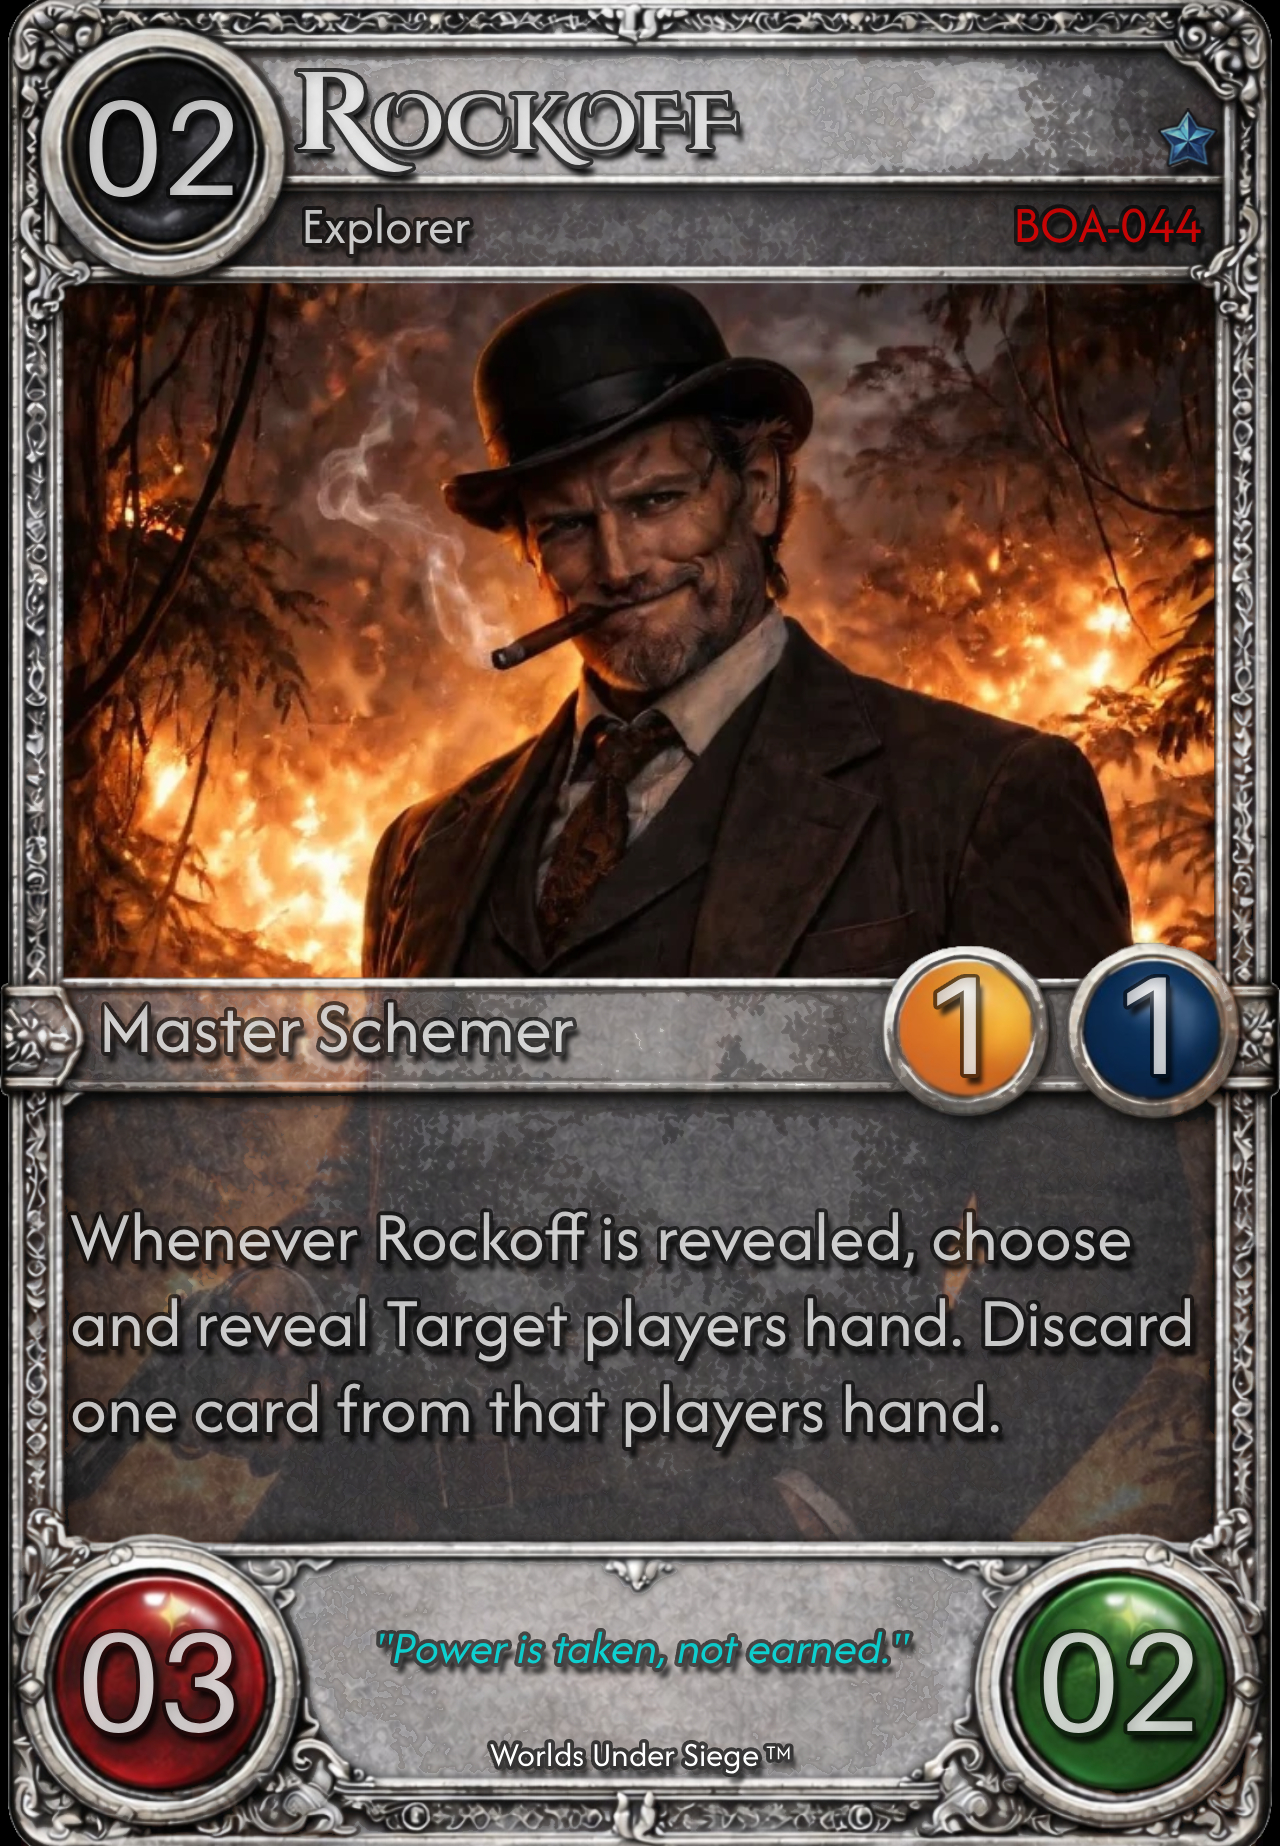
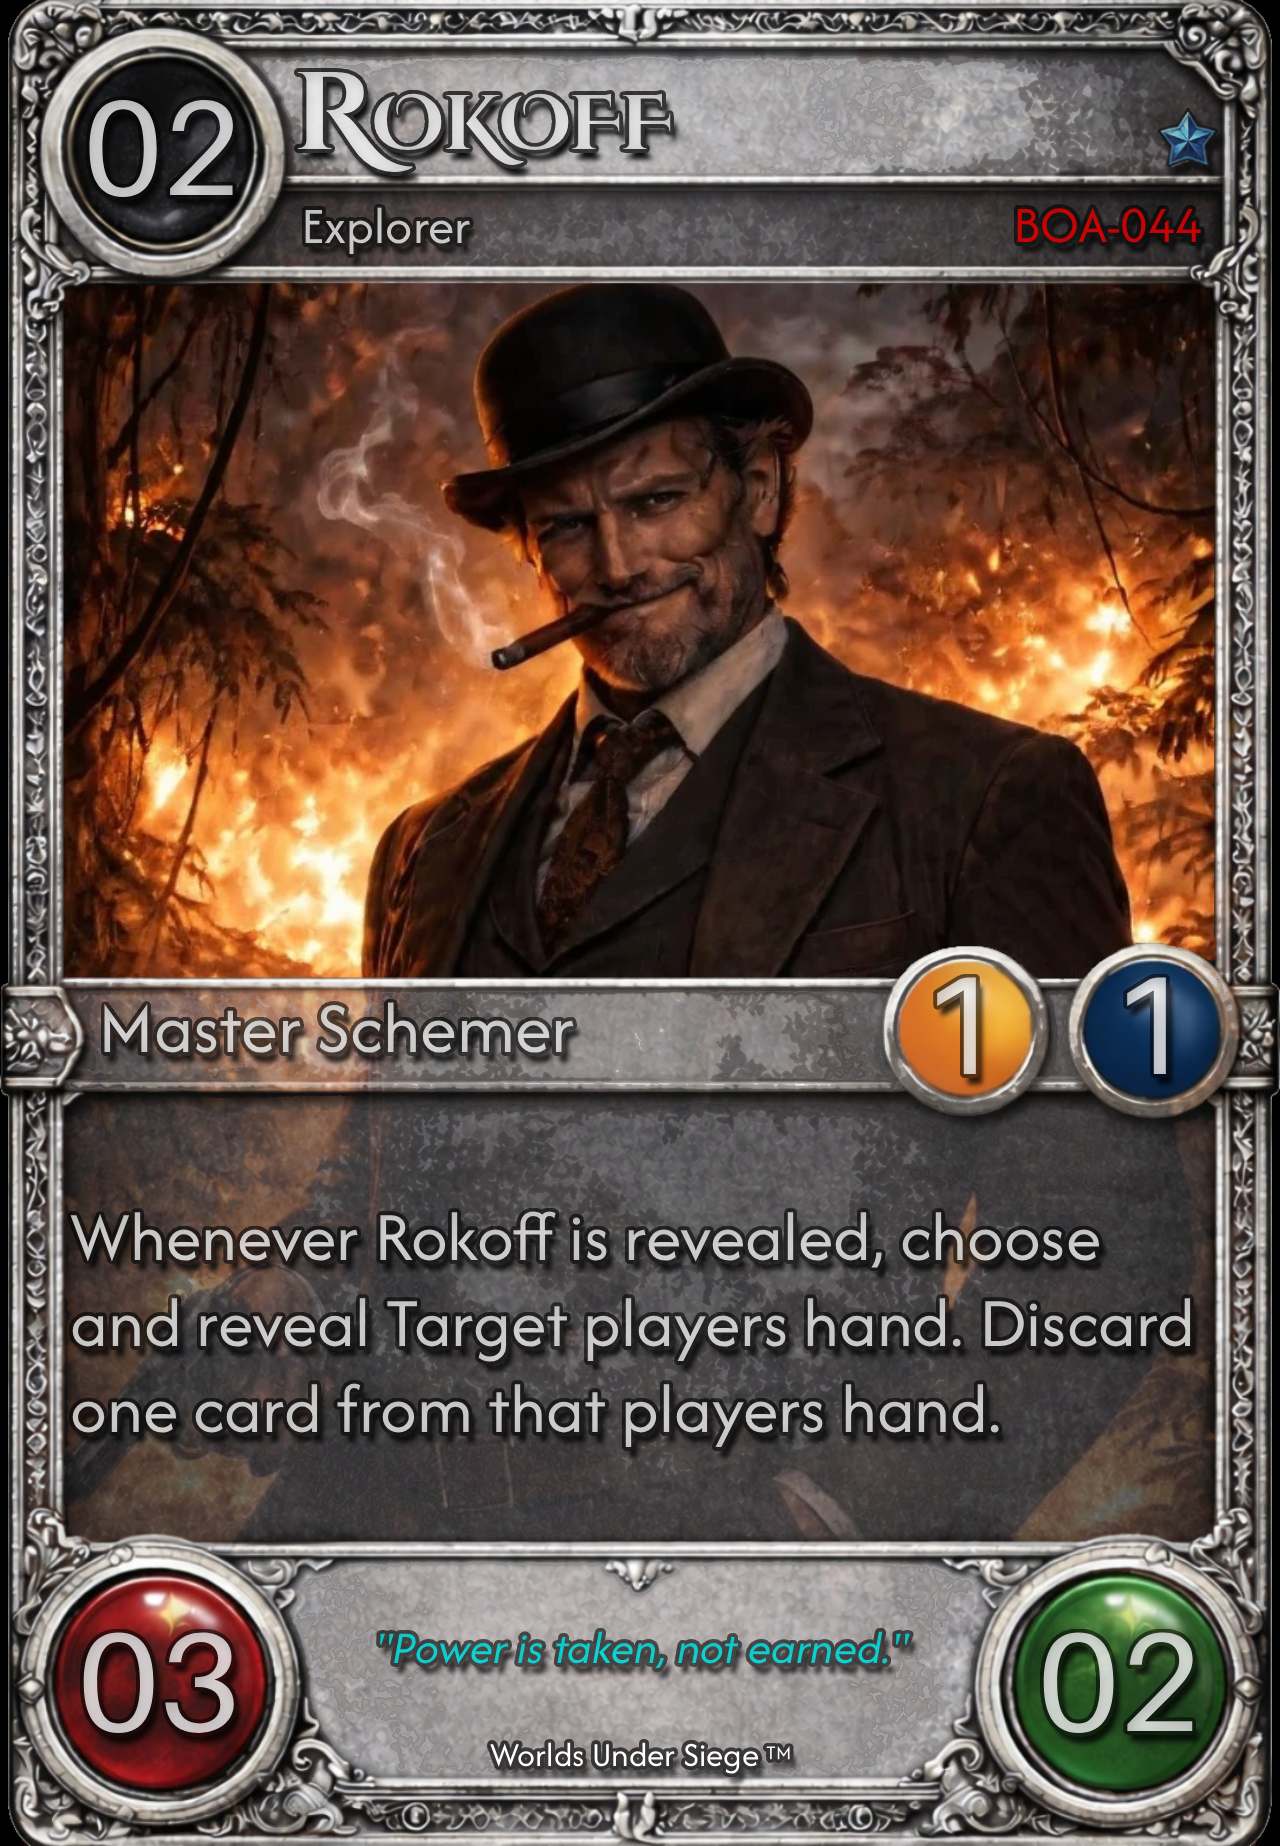
edit

Changed region(s): [[0.3438, 0.6484, 0.9062, 0.7102], [0.3438, 0.0309, 0.5938, 0.0926]]

diff --git a/game/permanent.js b/game/permanent.js
@@ -1,0 +1,108 @@
+"use strict";
+
+/* Worlds Under Siege — v17 Permanent abstraction. */
+
+const PermanentZones = Object.freeze({
+  BATTLEFIELD: typeof ZoneTypes !== "undefined" ? ZoneTypes.BATTLEFIELD : "battlefield",
+  DISCARD: typeof ZoneTypes !== "undefined" ? ZoneTypes.DISCARD : "discard",
+});
+
+function isPermanent(card) {
+  return Boolean(card && (isUnit(card) || isConstruct(card) || isItem(card) || isEvent(card) || isStronghold(card)));
+}
+
+function normalizePermanent(permanent, options = {}) {
+  if (!permanent || typeof permanent !== "object") return permanent;
+  normalizeCard(permanent);
+  permanent.owner ??= options.owner ?? options.controller ?? null;
+  permanent.controller ??= options.controller ?? permanent.owner;
+  permanent.zone ??= options.zone ?? permanent.zone ?? null;
+  permanent.attachments ??= [];
+  permanent.attachedTo ??= null;
+  permanent.counters ??= {};
+  permanent.permanentState ??= {};
+  Object.assign(permanent.permanentState, {
+    entering: false,
+    leaving: false,
+    destroyed: false,
+    registered: false,
+    ...(permanent.permanentState || {}),
+  });
+  permanent._permanentRegistrations ??= {
+    triggerIds: [], replacementIds: [], continuousEffectIds: []
+  };
+  return permanent;
+}
+
+function normalizeDefinitions(value) {
+  if (!value) return [];
+  return (Array.isArray(value) ? value : [value]).filter(Boolean);
+}
+
+function registerPermanent(permanent) {
+  normalizePermanent(permanent);
+  if (!isPermanent(permanent) || permanent.permanentState.registered) return permanent;
+
+  if (typeof registerTriggersForSource === "function") {
+    permanent._permanentRegistrations.triggerIds = registerTriggersForSource(permanent) || [];
+  }
+
+  const replacements = normalizeDefinitions(permanent.replacementEffects);
+  if (typeof registerReplacementEffect === "function") {
+    permanent._permanentRegistrations.replacementIds = replacements.map((definition) =>
+      registerReplacementEffect({ ...definition, source: definition.source ?? permanent, controller: definition.controller ?? permanent.controller })?.id
+    ).filter(Boolean);
+  }
+
+  const effects = normalizeDefinitions(permanent.continuousEffects ?? permanent.staticEffects);
+  if (typeof addContinuousEffect === "function") {
+    permanent._permanentRegistrations.continuousEffectIds = effects.map((definition) =>
+      addContinuousEffect({ ...definition, source: definition.source ?? permanent, controller: definition.controller ?? permanent.controller, expiresWithSource: definition.expiresWithSource !== false })?.id
+    ).filter(Boolean);
+  }
+
+  permanent.permanentState.registered = true;
+  return permanent;
+}
+
+function unregisterPermanent(permanent, reason = "left-battlefield") {
+  normalizePermanent(permanent);
+  if (typeof unregisterTriggersForSource === "function") unregisterTriggersForSource(permanent);
+  if (typeof unregisterReplacementEffectsForSource === "function") unregisterReplacementEffectsForSource(permanent);
+  if (typeof removeContinuousEffect === "function") {
+    for (const id of permanent._permanentRegistrations.continuousEffectIds || []) removeContinuousEffect(id, reason);
+  }
+  permanent._permanentRegistrations = { triggerIds: [], replacementIds: [], continuousEffectIds: [] };
+  permanent.permanentState.registered = false;
+  return permanent;
+}
+
+function enterPermanent(permanent, options = {}) {
+  normalizePermanent(permanent, options);
+  if (!isPermanent(permanent)) throw new TypeError("enterPermanent() requires a permanent card.");
+  permanent.permanentState.entering = true;
+  permanent.zone = options.zone ?? PermanentZones.BATTLEFIELD;
+  registerPermanent(permanent);
+  permanent.permanentState.entering = false;
+  if (typeof emitGameEvent === "function") {
+    emitGameEvent("permanentEntered", { permanent, playerId: permanent.controller, cause: options.cause ?? "played" }, { source: permanent });
+  }
+  return permanent;
+}
+
+function leavePermanent(permanent, options = {}) {
+  normalizePermanent(permanent);
+  if (!isPermanent(permanent) || permanent.permanentState.leaving) return false;
+  permanent.permanentState.leaving = true;
+  if (typeof emitGameEvent === "function") {
+    emitGameEvent("permanentLeaving", { permanent, cause: options.cause ?? "left-play", destination: options.destination ?? PermanentZones.DISCARD }, { source: options.source ?? permanent });
+  }
+  unregisterPermanent(permanent, options.cause);
+  permanent.zone = options.destination ?? PermanentZones.DISCARD;
+  permanent.permanentState.destroyed = options.destroyed === true;
+  permanent.permanentState.leaving = false;
+  if (typeof emitGameEvent === "function") {
+    emitGameEvent("permanentLeft", { permanent, cause: options.cause ?? "left-play", destination: permanent.zone }, { source: options.source ?? permanent });
+  }
+  return true;
+}

diff --git a/game/event-controller.js b/game/event-controller.js
@@ -1,0 +1,83 @@
+"use strict";
+
+/* Worlds Under Siege — v17 persistent Event controller. */
+function ensureEventState() {
+  GameState.playerEvents ??= { 1: null, 2: null };
+  GameState.nextEventId ??= 1;
+}
+
+function getControlledEvent(playerId) {
+  ensureEventState();
+  return GameState.playerEvents[playerId] ?? null;
+}
+
+function removeEventFromPlay(eventCard, options = {}) {
+  if (!eventCard || !isEvent(eventCard)) return false;
+  ensureEventState();
+  const playerId = eventCard.controller ?? eventCard.owner;
+  if (GameState.playerEvents[playerId]?.id === eventCard.id) GameState.playerEvents[playerId] = null;
+  emitGameEvent("eventLeavingPlay", { event: eventCard, playerId, cause: options.cause ?? "removed" }, { source: options.source ?? eventCard });
+  leavePermanent(eventCard, { cause: options.cause ?? "removed", source: options.source, destroyed: options.destroyed === true });
+  GameState.players[playerId].discardCount = (GameState.players[playerId].discardCount ?? 0) + 1;
+  emitGameEvent(options.destroyed ? "eventDestroyed" : "eventLeftPlay", { event: eventCard, playerId, cause: options.cause ?? "removed" }, { source: options.source ?? eventCard });
+  return true;
+}
+
+function chooseEventToKeep(playerId, existingEvent, incomingEvent) {
+  if (typeof window !== "undefined" && typeof window.confirm === "function") {
+    return window.confirm(`${GameState.players[playerId].name} already controls ${existingEvent.name}.\n\nOK: replace it with ${incomingEvent.name}.\nCancel: keep ${existingEvent.name} and discard ${incomingEvent.name}.`)
+      ? incomingEvent : existingEvent;
+  }
+  return incomingEvent;
+}
+
+function playEventCard(card, playerId = getInteractionPlayerId()) {
+  ensureEventState();
+  normalizeCard(card);
+  if (!isEvent(card)) throw new TypeError("playEventCard() requires an Event card.");
+  if (GameState.priority.active) {
+    addLog("Events cannot be played while a priority window is open.");
+    return false;
+  }
+  const player = GameState.players[playerId];
+  const index = player?.hand.findIndex((candidate) => candidate.id === card.id) ?? -1;
+  if (!player || index < 0) return false;
+
+  const existing = getControlledEvent(playerId);
+  const keep = existing ? chooseEventToKeep(playerId, existing, card) : card;
+  player.hand.splice(index, 1); // Events are free.
+  card.id ||= `player-${playerId}-event-${GameState.nextEventId++}`;
+  card.owner = playerId;
+  card.controller = playerId;
+
+  if (existing && keep === existing) {
+    card.zone = typeof ZoneTypes !== "undefined" ? ZoneTypes.DISCARD : "discard";
+    player.discardCount = (player.discardCount ?? 0) + 1;
+    emitGameEvent("eventChosenToDiscard", { event: card, kept: existing, playerId }, { source: card });
+    addLog(`${player.name} keeps ${existing.name}; ${card.name} is discarded.`);
+  } else {
+    if (existing) {
+      emitGameEvent("eventWouldBeReplaced", { existing, incoming: card, playerId }, { source: card });
+      removeEventFromPlay(existing, { cause: "replaced", source: card });
+      emitGameEvent("eventReplaced", { removed: existing, kept: card, playerId }, { source: card });
+    }
+    GameState.playerEvents[playerId] = card;
+    enterPermanent(card, { owner: playerId, controller: playerId, cause: "played" });
+    emitGameEvent("eventEnteredPlay", { event: card, playerId }, { source: card });
+    addLog(`🌐 ${player.name} plays Event ${card.name} for free.`);
+  }
+
+  GameState.selectedCardId = null;
+  GameState.actionSelectionMessage = "";
+  reportValidation(validateEventState(), "Event state");
+  if (typeof renderGame === "function") renderGame();
+  return true;
+}
+
+function completeEvent(eventCard, options = {}) {
+  if (!eventCard || !isEvent(eventCard)) return false;
+  emitGameEvent("eventCompleted", { event: eventCard, playerId: eventCard.controller ?? eventCard.owner }, { source: options.source ?? eventCard });
+  return removeEventFromPlay(eventCard, { cause: "completed", source: options.source ?? eventCard });
+}
+
+ensureEventState();

diff --git a/game/cards.js b/game/cards.js
@@ -27,6 +27,8 @@ function renderHandCardPreview(card) {
       ? `Action · Cost ${card.cost}`
       : isItem(card)
         ? `Item · Cost ${card.cost}`
+        : isEvent(card)
+          ? "Event · Free"
         : `Cost ${card.cost} · ATK ${card.attack} · HP ${card.hp} · ` +
         `RNG ${card.range} · SPD ${card.speed}`;
 
@@ -95,7 +97,7 @@ function createHandCard(card, player) {
   const legalDuringPriority =
     !GameState.priority.active || isAction(card);
   const isPlayable =
-    card.cost <= player.energy &&
+    (isEvent(card) || card.cost <= player.energy) &&
     hasPriority &&
     legalDuringPriority &&
     !GameState.priority.resolving;
@@ -118,6 +120,8 @@ function createHandCard(card, player) {
   const name=document.createElement("strong"); name.className="hand-card__name"; name.textContent=card.name;
   const stats=document.createElement("span"); stats.className="hand-card__stats";
   if(isAction(card)){cardButton.classList.add("hand-card--action"); stats.textContent="ACTION";}
+  else if(isEvent(card)){cardButton.classList.add("hand-card--event"); stats.textContent="EVENT · FREE";}
+  else if(isItem(card)){stats.textContent="ITEM";}
   else{stats.textContent=`ATK ${card.attack} · HP ${card.hp} · RNG ${card.range} · SPD ${card.speed}`;}
   cardButton.append(cost,stats,name);
   cardButton.addEventListener("click",()=>selectCard(card.id));
@@ -433,7 +437,7 @@ function commitSelectedAction(targetId = null) {
     return false;
   }
 
-  if (player.energy < card.cost) {
+  if (!isEvent(card) && player.energy < card.cost) {
     addLog(
       `${card.name} costs ${card.cost} Energy.`
     );
@@ -600,6 +604,9 @@ function selectCard(cardId) {
     addLog(
       `${card.name} selected, but it requires ${card.cost} Energy and ${player.name} has ${player.energy}.`
     );
+  } else if (isEvent(card)) {
+    playEventCard(card, playerId);
+    return;
   } else if (isAction(card)) {
   if (
     GameState.priority.active &&

diff --git a/game/validator.js b/game/validator.js
@@ -1,0 +1,28 @@
+"use strict";
+
+/* Development-time validators. They warn instead of interrupting play. */
+function validatePermanent(permanent) {
+  const errors = [];
+  if (!permanent || typeof permanent !== "object") return { valid: false, errors: ["Permanent is not an object."] };
+  if (!permanent.id) errors.push("Missing id.");
+  if (!permanent.name) errors.push("Missing name.");
+  if (!isPermanent(permanent)) errors.push("Card does not have a permanent type.");
+  if (!getCardTypes(permanent).length) errors.push("Missing types.");
+  if (permanent.controller == null && permanent.owner == null) errors.push("Missing owner/controller.");
+  return { valid: errors.length === 0, errors };
+}
+
+function validateEventState() {
+  const errors = [];
+  const slots = GameState.playerEvents || {};
+  for (const playerId of [1, 2]) {
+    const event = slots[playerId];
+    if (event && !isEvent(event)) errors.push(`Player ${playerId} Event slot contains a non-Event.`);
+  }
+  return { valid: errors.length === 0, errors };
+}
+
+function reportValidation(result, label = "Validation") {
+  if (!result.valid) console.warn(`${label} failed:`, result.errors);
+  return result.valid;
+}

diff --git a/game/index.html b/game/index.html
@@ -508,6 +508,9 @@
 <script src="./game-state.js?v=15"></script>
 <script src="./replacement.js?v=13"></script>
 <script src="./events.js?v=13"></script>
+<script src="./permanent.js?v=17"></script>
+<script src="./validator.js?v=17"></script>
+<script src="./event-controller.js?v=17"></script>
 <script src="./effects.js?v=13"></script>
 <script src="./zones.js?v=13"></script>
 <script src="./costs.js?v=13"></script>

diff --git a/game/game-state.js b/game/game-state.js
@@ -84,6 +84,8 @@ pendingConstructOperatorId: null,
   units: normalizeCards(createStartingUnits()),
   items: [],
   nextItemId: 1,
+  playerEvents: { 1: null, 2: null },
+  nextEventId: 1,
 
   log: ["Battlefield initialized."],
 };

diff --git a/game/V17_PERMANENT_EVENTS_PATCH_NOTES.md b/game/V17_PERMANENT_EVENTS_PATCH_NOTES.md
@@ -1,0 +1,20 @@
+# Worlds Under Siege v17 — Permanent & Persistent Events
+
+## Implemented
+- Added `permanent.js` shared lifecycle abstraction.
+- Added generic registration and cleanup of triggers, replacement effects, and continuous/static effects.
+- Added `validator.js` development checks.
+- Added `event-controller.js` with one persistent Event slot per player.
+- Events are free to play and persist until completed, destroyed, or replaced.
+- Playing a second Event asks which Event to keep; the other is discarded.
+- Added Event and generic Permanent lifecycle events.
+- Added Event state to `GameState`.
+- Hand rendering identifies Events as free and avoids Unit-stat text.
+
+## Partial / remaining
+- Dedicated Event battlefield UI slots and artwork.
+- Non-modal replacement-choice panel (current implementation uses a browser confirmation dialog).
+- Migration of every existing Unit and Item entry/exit path to the Permanent API.
+- Stronghold instances and ability registration through Permanent.
+- Card-specific Event definitions and completion conditions.
+- Automated browser gameplay tests.
